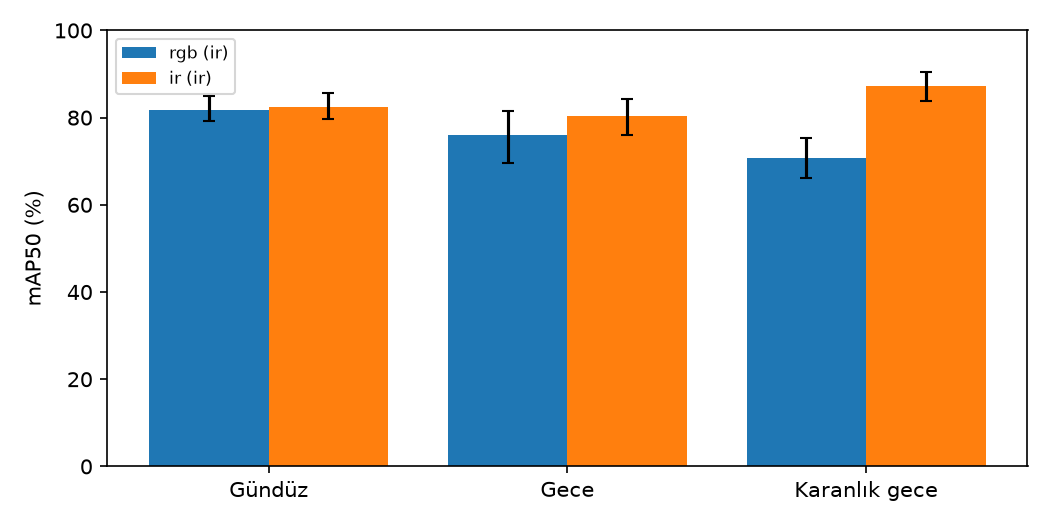
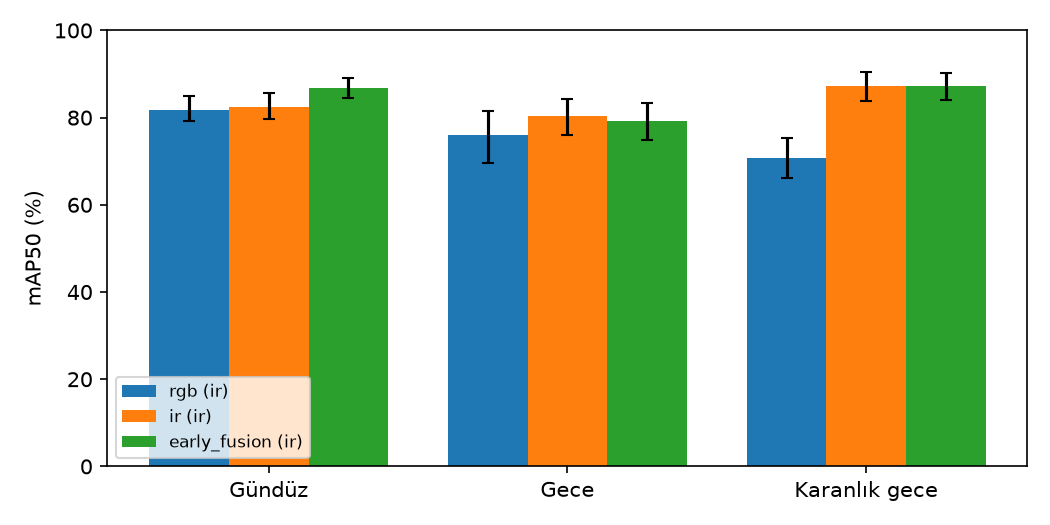
docs: add E3 and paired differences to results and FR-V6 crosscheck

diff --git a/docs/results.md b/docs/results.md
@@ -7,6 +7,7 @@
 |---|---|---|---|---|---|---|---|---|
 | 2026-10-11_e1-rgb_s_49da0cb | rgb | val | ir | 76.1 [73.6, 78.9] | 48.3 | 81.8 | 76.0 | 70.8 |
 | 2026-10-14_e2-ir_s_02c4098 | ir | val | ir | 83.9 [81.7, 85.9] | 62.2 | 82.4 | 80.3 | 87.1 |
+| 2026-10-14_e3-early-fusion_s_67ace37 | early_fusion | val | ir | 85.7 [83.8, 87.6] | 64.5 | 86.7 | 79.2 | 87.3 |
 
 ![Aydınlatma kırılımı](figures/results/illumination.png)
 
@@ -18,3 +19,14 @@
 |---|---|---|---|---|---|---|---|
 | 2026-10-11_e1-rgb_s_49da0cb | rgb | 76.1 [73.6, 78.9] | 78.0 [75.5, 80.8] | +1.8 | +1.3 | +1.6 | +0.3 |
 | 2026-10-14_e2-ir_s_02c4098 | ir | 83.9 [81.7, 85.9] | 72.9 [70.4, 76.0] | -11.0 | -2.3 | -2.7 | -19.8 |
+| 2026-10-14_e3-early-fusion_s_67ace37 | early_fusion | 85.7 [83.8, 87.6] | 75.8 [73.6, 78.7] | -9.8 | -2.8 | -2.2 | -18.0 |
+
+## Eşleştirilmiş farklar
+
+> `baykus-eval compare`: aynı bootstrap örnekleriyle A − B, mAP50 puanı [%95 GA]; `*` aralık 0'ı içermiyor (anlamlı). Tek seed: seed varyansı dahil değil.
+
+| Karşılaştırma (A − B) | Genel | Gündüz | Gece | Karanlık gece |
+|---|---|---|---|---|
+| e2_ir-vs-e1_rgb_val_ir | +7.8 [+5.4, +9.9] * | +0.6 [-1.6, +2.8] | +4.3 [+0.8, +8.5] * | +16.3 [+12.8, +20.3] * |
+| e3_early_fusion-vs-e1_rgb_val_ir | +9.5 [+7.3, +11.7] * | +4.9 [+2.9, +7.0] * | +3.2 [-0.2, +7.9] | +16.5 [+13.2, +20.2] * |
+| e3_early_fusion-vs-e2_ir_val_ir | +1.8 [+0.8, +2.8] * | +4.3 [+2.5, +6.3] * | -1.1 [-2.6, +0.8] | +0.1 [-1.3, +1.4] |

diff --git a/docs/eval-crosscheck.md b/docs/eval-crosscheck.md
@@ -6,6 +6,7 @@ Kabul ölçütü (spec §22 #17): fark ≤ 0,01 ya da açıklaması yazılmış.
 |---|---|---|---|---|---|
 | 2026-10-11_e1-rgb_s_49da0cb | ir | 0,7639 | 0,7613 | 0,0026 | ≤ 0,01 ✓ |
 | 2026-10-14_e2-ir_s_02c4098 | ir | 0,8424 | 0,8390 | 0,0034 | ≤ 0,01 ✓ |
+| 2026-10-14_e3-early-fusion_s_67ace37 | ir | 0,8600 | 0,8565 | 0,0035 | ≤ 0,01 ✓ |
 
 Kaynak: `results/runs/2026-10-11_e1-rgb_s_49da0cb_val_ir.json` → `crosscheck`. Değerlendirme 2026-10-14, Colab A100,
 Ultralytics 8.4.177, commit `d99411b`, `conf=0.001`, `max_det=1000`, IR etiketleri etkin. `dropped_predictions = 0`
@@ -13,6 +14,9 @@ Ultralytics 8.4.177, commit `d99411b`, `conf=0.001`, `max_det=1000`, IR etiketle
 E2: `results/runs/2026-10-14_e2-ir_s_02c4098_val_ir.json` → `crosscheck`; değerlendirme 2026-10-14, Colab A100, Ultralytics 8.4.177,
 commit `02c4098`, aynı ayarlar, `dropped_predictions = 0`. Ultralytics'in kendi COCO değerlendirmesi (faster-coco-eval 1.8.0, `maxDets=100`):
 AP50 = 0,836, AP50-95 = 0,621 (pycocotools `maxDets=1000`: 0,8390 / 0,6222).
+E3: `results/runs/2026-10-14_e3-early-fusion_s_67ace37_val_ir.json` → `crosscheck`; değerlendirme 2026-10-15, Colab A100,
+Ultralytics 8.4.177, commit `67ace37`, aynı ayarlar, `dropped_predictions = 0`. faster-coco-eval (`maxDets=100`):
+AP50 = 0,855, AP50-95 = 0,644 (pycocotools `maxDets=1000`: 0,8565 / 0,6448).
 
 ## Ek gözlem: maxDets = 100 skoru düşürüyor
 
